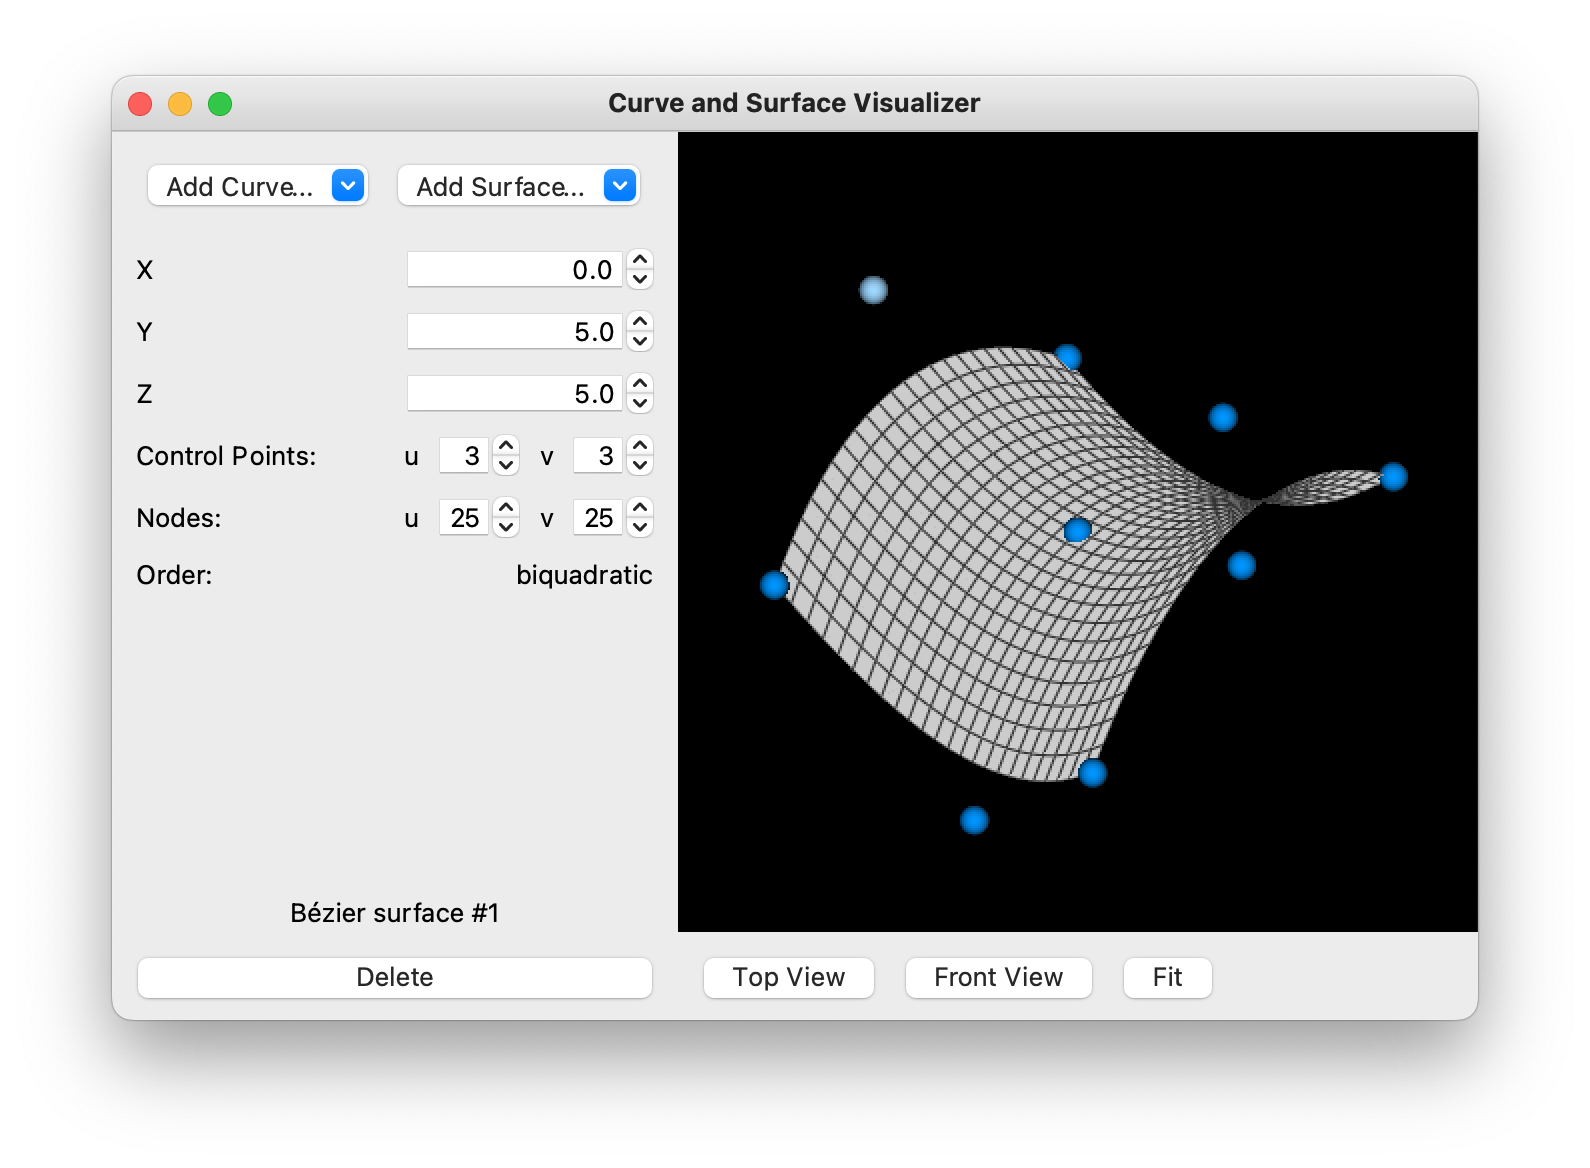
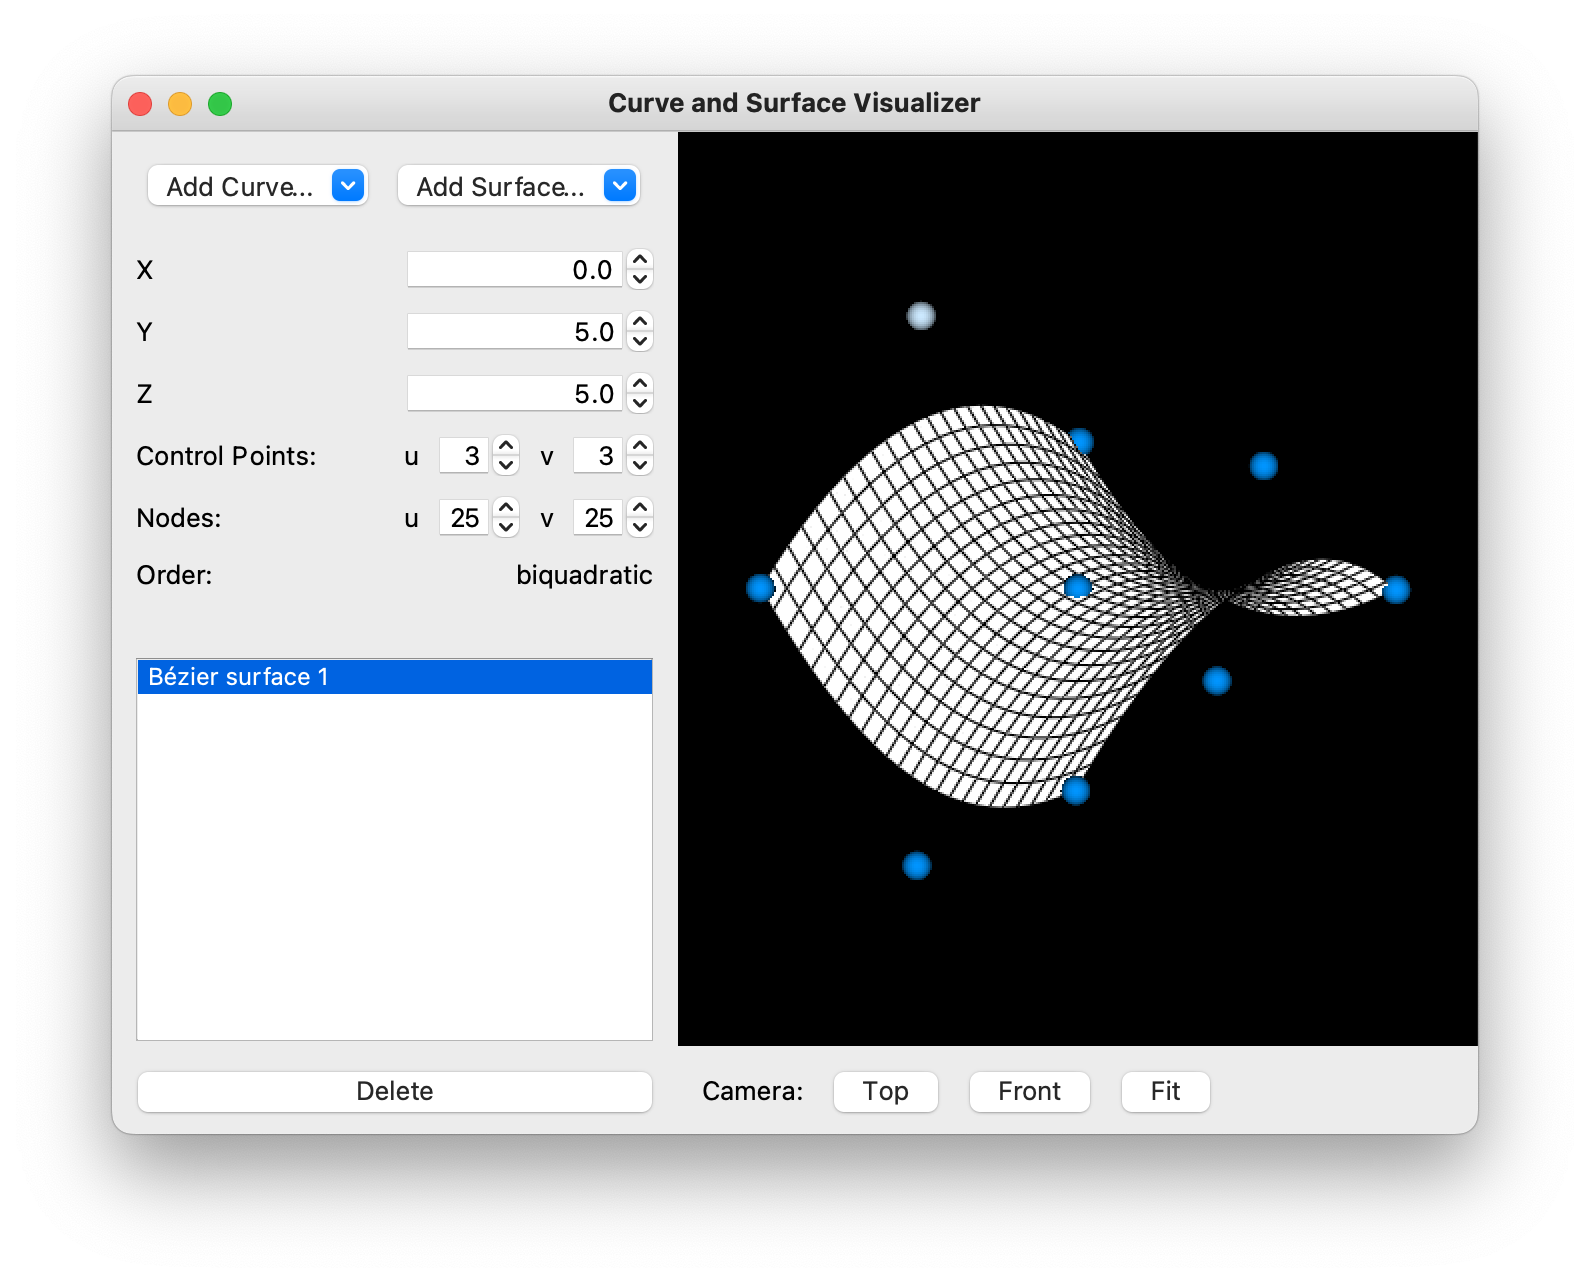
Add images for README
- Updated screenshot_1.png
- Added screenshots for each type of curve/surface, display in README

diff --git a/README.md b/README.md
@@ -10,6 +10,12 @@ A GUI program for viewing and modifying curves and surfaces in 3D, written in Py
 - Select multiple geometries of the same type to view their continuity
 - Export geometries shown in the window as an image
 
+| Curves | | Surfaces | |
+| --- | --- | --- | --- |
+| Bézier curve | <img src="Images/bezier_curve.png" height=100> | Bézier surface | <img src="Images/bezier_surface.png" height=100> |
+| Hermite curve | <img src="Images/hermite_curve.png" height=100> | Hermite surface | <img src="Images/hermite_surface.png" height=100> |
+| B-spline curve | <img src="Images/bspline_curve.png" height=100> | B-spline surface | <img src="Images/bspline_surface.png" height=100> |
+
 ## Running
 Run this program by downloading the executable file or downloading and running the source code.
 
